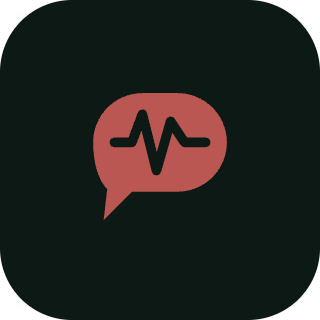
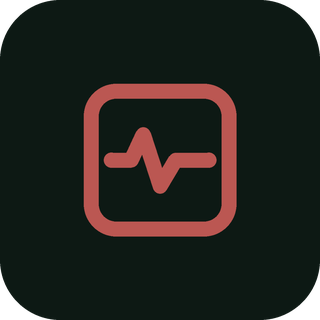
feat(brand): new record+signal mark, spaced wordmark, AIImpactRegistry bylines
- New icon family for aiimpactregistry: a rounded record/card outline with a
  signal pulse through it, keeping the existing pattern (a container shape with
  a signal inside) while suiting the new name. Generated in all four polarities
  (accent/dark/light/white tiles) plus favicons, and swapped into the OG card.
- Wordmark now breaks as "AI Impact Registry" (AI in accent, rest in ink) via a
  new optional `space` flag on the wordmark config; previously it rendered as
  one run, "AIImpactRegistry".
- Blog bylines: "AISafetyWatch team" -> "AIImpactRegistry team" (4 posts + the
  blog README example).

diff --git a/src/site.config.ts b/src/site.config.ts
@@ -32,7 +32,13 @@ export type BrandVariant = {
    * The lockup sets exactly one half of the wordmark in the accent colour and
    * the other in ink - `accent` says which half. Mirrors the supplied artwork.
    */
-  wordmark: { lead: string; tail: string; accent: "lead" | "tail" };
+  wordmark: {
+    lead: string;
+    tail: string;
+    accent: "lead" | "tail";
+    /** Render a space between lead and tail (multi-word names). */
+    space?: boolean;
+  };
 };
 
 export const brandVariants = {
@@ -42,7 +48,7 @@ export const brandVariants = {
     legalName: "", // TODO(D11/NAP): set once the operating entity is registered.
     tagline:
       "The global reporting platform for psychological effects of AI technology.",
-    wordmark: { lead: "AI", tail: "ImpactRegistry", accent: "lead" },
+    wordmark: { lead: "AI", tail: "Impact Registry", accent: "lead", space: true },
   },
   aisafetywatch: {
     key: "aisafetywatch",

diff --git a/src/brand/BrandLockup.tsx b/src/brand/BrandLockup.tsx
@@ -15,11 +15,12 @@ export function BrandName() {
  */
 export function BrandWordmark({ className = "" }: { className?: string }) {
   const { variant } = useBrand();
-  const { lead, tail, accent } = variant.wordmark;
+  const { lead, tail, accent, space } = variant.wordmark;
 
   return (
     <span className={`font-display font-extrabold tracking-tight ${className}`}>
       <span className={accent === "lead" ? "text-accent" : "text-ink"}>{lead}</span>
+      {space ? " " : null}
       <span className={accent === "tail" ? "text-accent" : "text-ink"}>{tail}</span>
     </span>
   );

diff --git a/content/blog/README.md b/content/blog/README.md
@@ -29,7 +29,7 @@ title: "Spotting when an AI tool is affecting how you feel"
 description: "A short, plain-language guide to the early signs, and what to do about them."
 date: 2026-08-07            # YYYY-MM-DD. Required. Drives ordering + datePublished.
 updated: 2026-08-10         # Optional. Set when you meaningfully edit a live post.
-author: "AISafetyWatch team" # Optional. Omit to attribute to the organisation.
+author: "AIImpactRegistry team" # Optional. Omit to attribute to the organisation.
 tags: ["guides", "wellbeing"]   # Optional.
 image: /blog/spotting-ai-distress/cover.png   # Optional cover + OG image.
 imageAlt: "Illustration of a person pausing to check in with themselves."

diff --git a/content/blog/chatgpt-five-priorities-for-research.md b/content/blog/chatgpt-five-priorities-for-research.md
@@ -3,7 +3,7 @@ published: false
 title: "Before the guidelines: five priorities for ChatGPT in research"
 description: "In early 2023, a group of scientists wrote five priorities for using ChatGPT in research - the seed of today's living guidelines and official EU policy. Here's what they said, and why it still matters."
 date: 2026-08-07
-author: "AISafetyWatch team"
+author: "AIImpactRegistry team"
 tags: ["research", "guidelines", "history"]
 ---
 

diff --git a/content/blog/living-guidelines-for-ai-in-research.md b/content/blog/living-guidelines-for-ai-in-research.md
@@ -3,7 +3,7 @@ published: false
 title: "The rules for AI in research are now official - and designed to keep changing"
 description: "The 'living guidelines' approach - scientists keeping oversight of generative AI in research - is now official European guidance. Here's what it says, and why it matters."
 date: 2026-08-07
-author: "AISafetyWatch team"
+author: "AIImpactRegistry team"
 tags: ["research", "policy", "guidelines"]
 ---
 

diff --git a/content/blog/launching-soon-report-ai-side-effects.md b/content/blog/launching-soon-report-ai-side-effects.md
@@ -3,7 +3,7 @@ published: true
 title: "Launching soon: a place to report AI side effects"
 description: "A public reporting platform for effects people notice during or after using AI tools and social media. High privacy standards, no account needed. Launching soon."
 date: 2026-08-12
-author: "AISafetyWatch team"
+author: "AIImpactRegistry team"
 tags: ["reporting", "ai-safety", "launch"]
 ---
 

diff --git a/content/blog/spotting-when-ai-is-affecting-how-you-feel.md b/content/blog/spotting-when-ai-is-affecting-how-you-feel.md
@@ -3,7 +3,7 @@ published: false
 title: "Spotting when an AI tool is affecting how you feel"
 description: "The early signs that a chatbot, app, or social feed is wearing on your wellbeing - and the small step you can take next."
 date: 2026-08-07
-author: "AISafetyWatch team"
+author: "AIImpactRegistry team"
 tags: ["guides", "wellbeing"]
 ---
 
